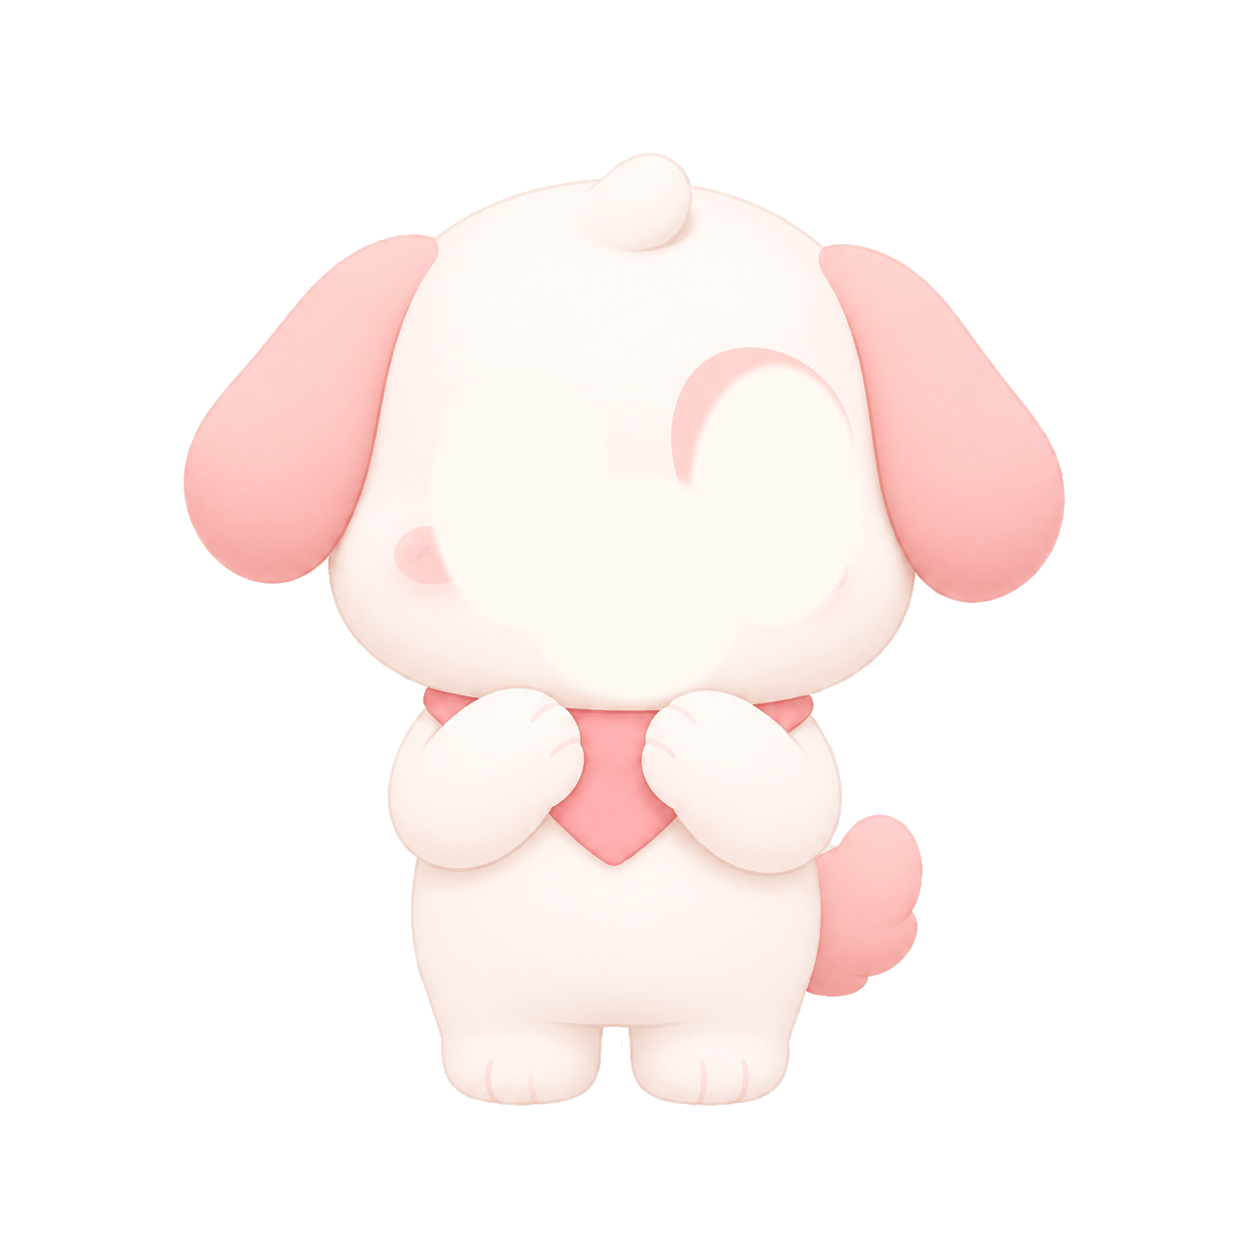
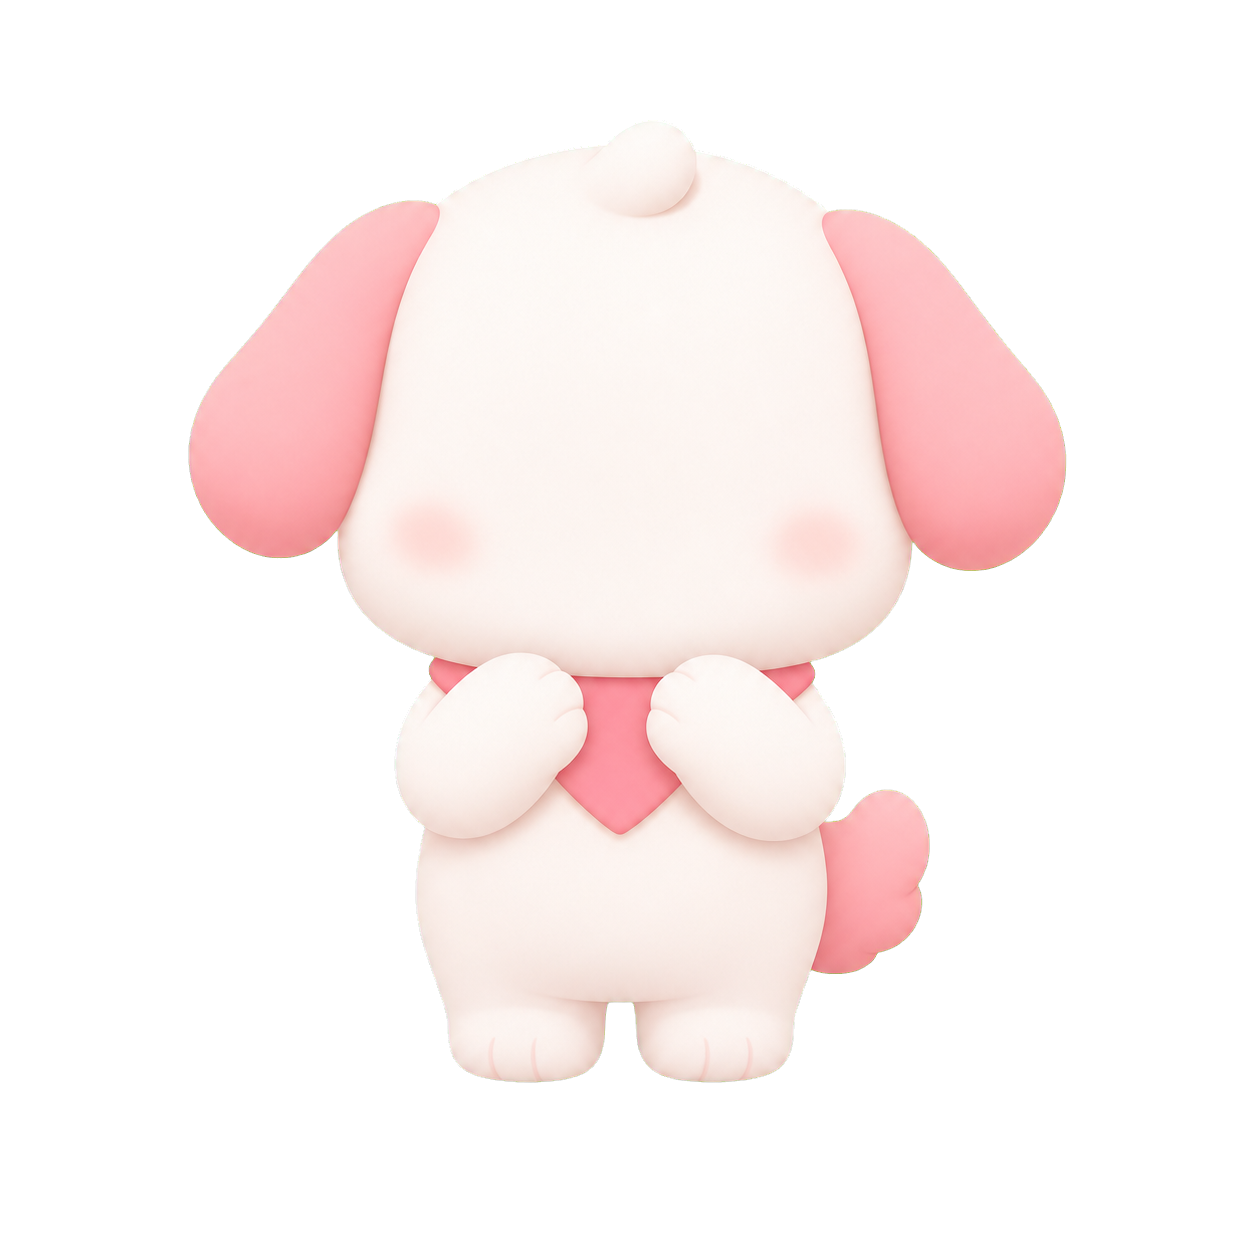
Improve Akkigae base body asset

diff --git a/docs/character-asset-prompts.md b/docs/character-asset-prompts.md
@@ -1,0 +1,61 @@
+# Character Asset Prompts
+
+## Base-Body Prompt
+
+Use this prompt when creating a `base-body` layer for the composable pet system.
+
+The goal is not to create a finished character face. The goal is a clean body/head layer that can receive separate SVG face parts.
+
+```text
+Use the provided pet mascot as the identity reference. Create a production-ready base-body asset for a composable pet character system.
+
+Asset purpose: base-body layer only. The face will be assembled later with separate SVG parts.
+
+MUST preserve from the reference:
+- same animal species and same mascot identity
+- same head silhouette, ears, top hair tuft if present, body, paws, chest detail, and tail
+- same soft pastel 3D mobile game mascot style
+- same front-facing full-body standing pose
+- same cute proportions and app icon polish
+- same soft cheek blush areas only if they are part of the body style, but keep them subtle
+
+ABSOLUTE FACE REMOVAL REQUIREMENTS:
+- Do NOT draw eyes.
+- Do NOT draw eyebrows.
+- Do NOT draw nose.
+- Do NOT draw mouth.
+- Do NOT draw teeth, tongue, smile, muzzle line, nostrils, lips, or any lower-mouth detail.
+- The center face area must be smooth clean fur with gentle shading only.
+- The lower face/chin area must be clean and simple.
+- No weird lower lip, no mouth remnant, no curved smile, no dark line.
+- Keep only the head shape, ears, blush, body, paws, chest detail, and tail.
+
+Output requirements:
+- Full body centered, same scale as reference.
+- Clean transparent PNG-style asset.
+- If transparency is unavailable, use a perfectly flat solid #00ff00 chroma-key background with no shadows, gradients, texture, or floor.
+- No circular backdrop, no glow circle, no UI, no text, no watermark.
+- No extra accessories.
+- Do not crop.
+- Smooth polished edges suitable for layering SVG face parts on top.
+
+Negative prompt:
+eyes, eyebrows, nose, mouth, smile, tongue, teeth, lips, muzzle line, nostril, facial expression, circular background, glow, shadow, text, watermark, checkerboard background
+```
+
+## Akkigae Base-Body V1 Notes
+
+The current `public/assets/pets/base-body/akkigae.png` was generated with the base-body prompt above using the original `public/assets/pets/akkigae.png` as the identity reference.
+
+Post-processing:
+
+- Generated on a flat `#00ff00` chroma-key background.
+- Removed the chroma key locally with `remove_chroma_key.py`.
+- Saved as transparent PNG.
+- Original `public/assets/pets/akkigae.png` remains unchanged.
+
+Quality notes:
+
+- Face feature removal is much cleaner than manual erasing.
+- The lower mouth artifact from the previous SVG overlay was fixed by simplifying the Akkigae mouth paths in `public/assets/pet-parts/akkigae/*.svg`.
+- This is still an MVP asset. Final production should generate or draw `base-body`, `neutral`, `happy`, `sad`, and `wink` as one coordinated style set.

diff --git a/README.md b/README.md
@@ -191,6 +191,7 @@ type PetAnchorMap = {
 - 렌더링 위치: `src/components/PetStage.tsx`
 - 홈 적용: 보상 직후 `happy`, 기분/포만도 낮음 `sad`, 옷장 아이템 장착 직후 `wink`
 - 미리보기: `public/interaction-preview.html`을 dev 서버의 Vite URL에서 열어 표정 전환을 확인합니다.
+- 생성 프롬프트: `docs/character-asset-prompts.md`
 
 이 방식은 AI가 캐릭터 전체를 다시 그리지 않게 하기 위한 MVP용 구조입니다. 현재 `base-body`는 원본 프리셋 PNG에서 눈/눈썹/코/입을 지운 실험용 베이스입니다. 정식 품질을 올리려면 디자이너가 눈/입 없는 `base-body.png`를 별도 제작하고, 눈/입/볼/이펙트 파츠를 전부 레이어로 조립하는 편이 더 안정적입니다.
 
